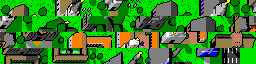
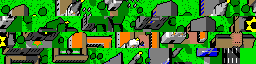
Synagogue: a larger, clearer Star of David on the front gable
The type 4 facade star was a projected shape and read as a small gold
lump at game zoom. The frontispiece is now a taller peaked gable, and
the star is a hand-placed sheet-pixel motif: a gold six-pointed star of
two interlocking triangles, with a hexagonal hole, on a dark round
backing. It is stamped after the 3/4 render so the points stay even in
Classic, SVGA and Spooky. The pavement star, twin towers, brick hall and
slate roof are unchanged.

diff --git a/art/churches/make_churches.py b/art/churches/make_churches.py
@@ -634,9 +634,9 @@ def cathedral(m):
 def synagogue(m):
     """Type 4, Synagogue: a brick hall with a dark slate roof, modest square
     twin towers with pyramidal caps, a paved entry court and steps,
-    round-arched windows, and a large gold Star of David in a dark circular
-    window on a thin south frontispiece, with another star in the pavement.
-    No dome and no minaret-like towers."""
+    round-arched windows, and a large gold Star of David (two interlocking
+    triangles on a dark round backing) on the front gable, with another
+    star in the pavement. No dome and no minaret-like towers."""
     m.paint(10, 40, 36, 48, "path")
     m.star_ground(21.5, 41.5, 6, "ink")
     m.star_ground(21.5, 41.5, 4.8, "star")
@@ -650,14 +650,17 @@ def synagogue(m):
         m.south_face(x0 + 3, x0 + 5, 39, 13, 16, "window")
         m.west_face(x0, 30, 38, 6, 12, "window")
         m.pyramid(x0, 28, x0 + 8, 40, 20, 6, "slate")
-    # Porch and door. The frontispiece above it is one voxel deep so the
-    # circular window and star are seen on the south face, not as a lid.
+    # Porch and door. A tall, one-voxel-deep peaked gable above the door
+    # gives a large, flat south face for a hand-placed Star of David
+    # stamped in sheet pixels after the render (see stamp_star_motif).
     m.box(16, 34, 27, 40, 0, 10, "brick")
     m.south_face(19, 24, 39, 0, 6, "door")
-    lift = 1.0 / RISE
-    m.box(16, 39, 27, 40, 10, 23, "brick")
-    m.disc_south(21, 39, 16, 5.2, "dark", lift=lift)
-    m.star_of_david(21, 39, 16, 4.2, "gold", lift=lift)
+    m.box(13, 39, 30, 40, 7, 16, "brick")
+    mid, half = 21.5, 8.5
+    for x in range(13, 30):
+        top = 16 + int(round(24 * (1.0 - abs(x + 0.5 - mid) / half)))
+        for z in range(16, top + 1):
+            m.set(x, 39, z, "brick")
     m.tree(2, 16, 3)
     m.tree(42, 16, 3)
     m.tree(2, 42, 3)
@@ -773,10 +776,69 @@ CHURCHES = [
 ]
 
 
+def _in_triangle(px, py, tri):
+    (ax, ay), (bx, by), (cx, cy) = tri
+    d = (by - cy) * (ax - cx) + (cx - bx) * (ay - cy)
+    if d == 0:
+        return False
+    u = ((by - cy) * (px - cx) + (cx - bx) * (py - cy)) / d
+    v = ((cy - ay) * (px - cx) + (ax - cx) * (py - cy)) / d
+    return u >= 0 and v >= 0 and u + v <= 1
+
+
+def _close_to_segment(px, py, x0, y0, x1, y1, half=0.7):
+    dx, dy = x1 - x0, y1 - y0
+    L2 = dx * dx + dy * dy
+    if L2 == 0:
+        return (px - x0) ** 2 + (py - y0) ** 2 <= half * half
+    t = max(0.0, min(1.0, ((px - x0) * dx + (py - y0) * dy) / L2))
+    qx, qy = x0 + t * dx, y0 + t * dy
+    return (px - qx) ** 2 + (py - qy) ** 2 <= half * half
+
+
+def stamp_star_motif(keys, cx, cy, radius):
+    """A large six-pointed star in sheet pixels (not projected), so the two
+    interlocking triangles stay clear at game zoom. Dark round backing,
+    gold points, and gold outlines of both triangles. Only paints over
+    already-drawn building pixels."""
+    cx, cy, r = float(cx), float(cy), float(radius)
+    # Apex toward the top of the sheet (smaller y).
+    up = ((cx, cy - r), (cx - r * 0.866025, cy + r * 0.5), (cx + r * 0.866025, cy + r * 0.5))
+    dn = ((cx, cy + r), (cx - r * 0.866025, cy - r * 0.5), (cx + r * 0.866025, cy - r * 0.5))
+    back_r = r + 2.4
+    x0, x1 = int(cx - back_r) - 1, int(cx + back_r) + 2
+    y0, y1 = int(cy - back_r) - 1, int(cy + back_r) + 2
+    for y in range(max(0, y0), min(S, y1)):
+        for x in range(max(0, x0), min(S, x1)):
+            if keys[y][x][0] != "v":
+                continue
+            px, py = x + 0.5, y + 0.5
+            in_up = _in_triangle(px, py, up)
+            in_dn = _in_triangle(px, py, dn)
+            on_edge = False
+            for tri in (up, dn):
+                for i in range(3):
+                    ax, ay = tri[i]
+                    bx, by = tri[(i + 1) % 3]
+                    if _close_to_segment(px, py, ax, ay, bx, by, 0.75):
+                        on_edge = True
+                        break
+            in_disc = (px - cx) ** 2 + (py - cy) ** 2 <= back_r * back_r
+            if on_edge or (in_up or in_dn) and not (in_up and in_dn):
+                keys[y][x] = ("v", "gold", 0)
+            elif in_disc:
+                keys[y][x] = ("v", "dark", 3)
+
+
 def build(number, draw):
     model = Model(1000 + number)
     draw(model)
-    return render(model)
+    keys = render(model)
+    if number == 4:
+        # Screen position of the frontispiece, measured from the 3/4 projection
+        # of its centre, then nudged so the star sits on the gable face.
+        stamp_star_motif(keys, 30, 25.5, 8.0)
+    return keys
 
 
 def sheet(ramps, ground, pal8, rendered):
